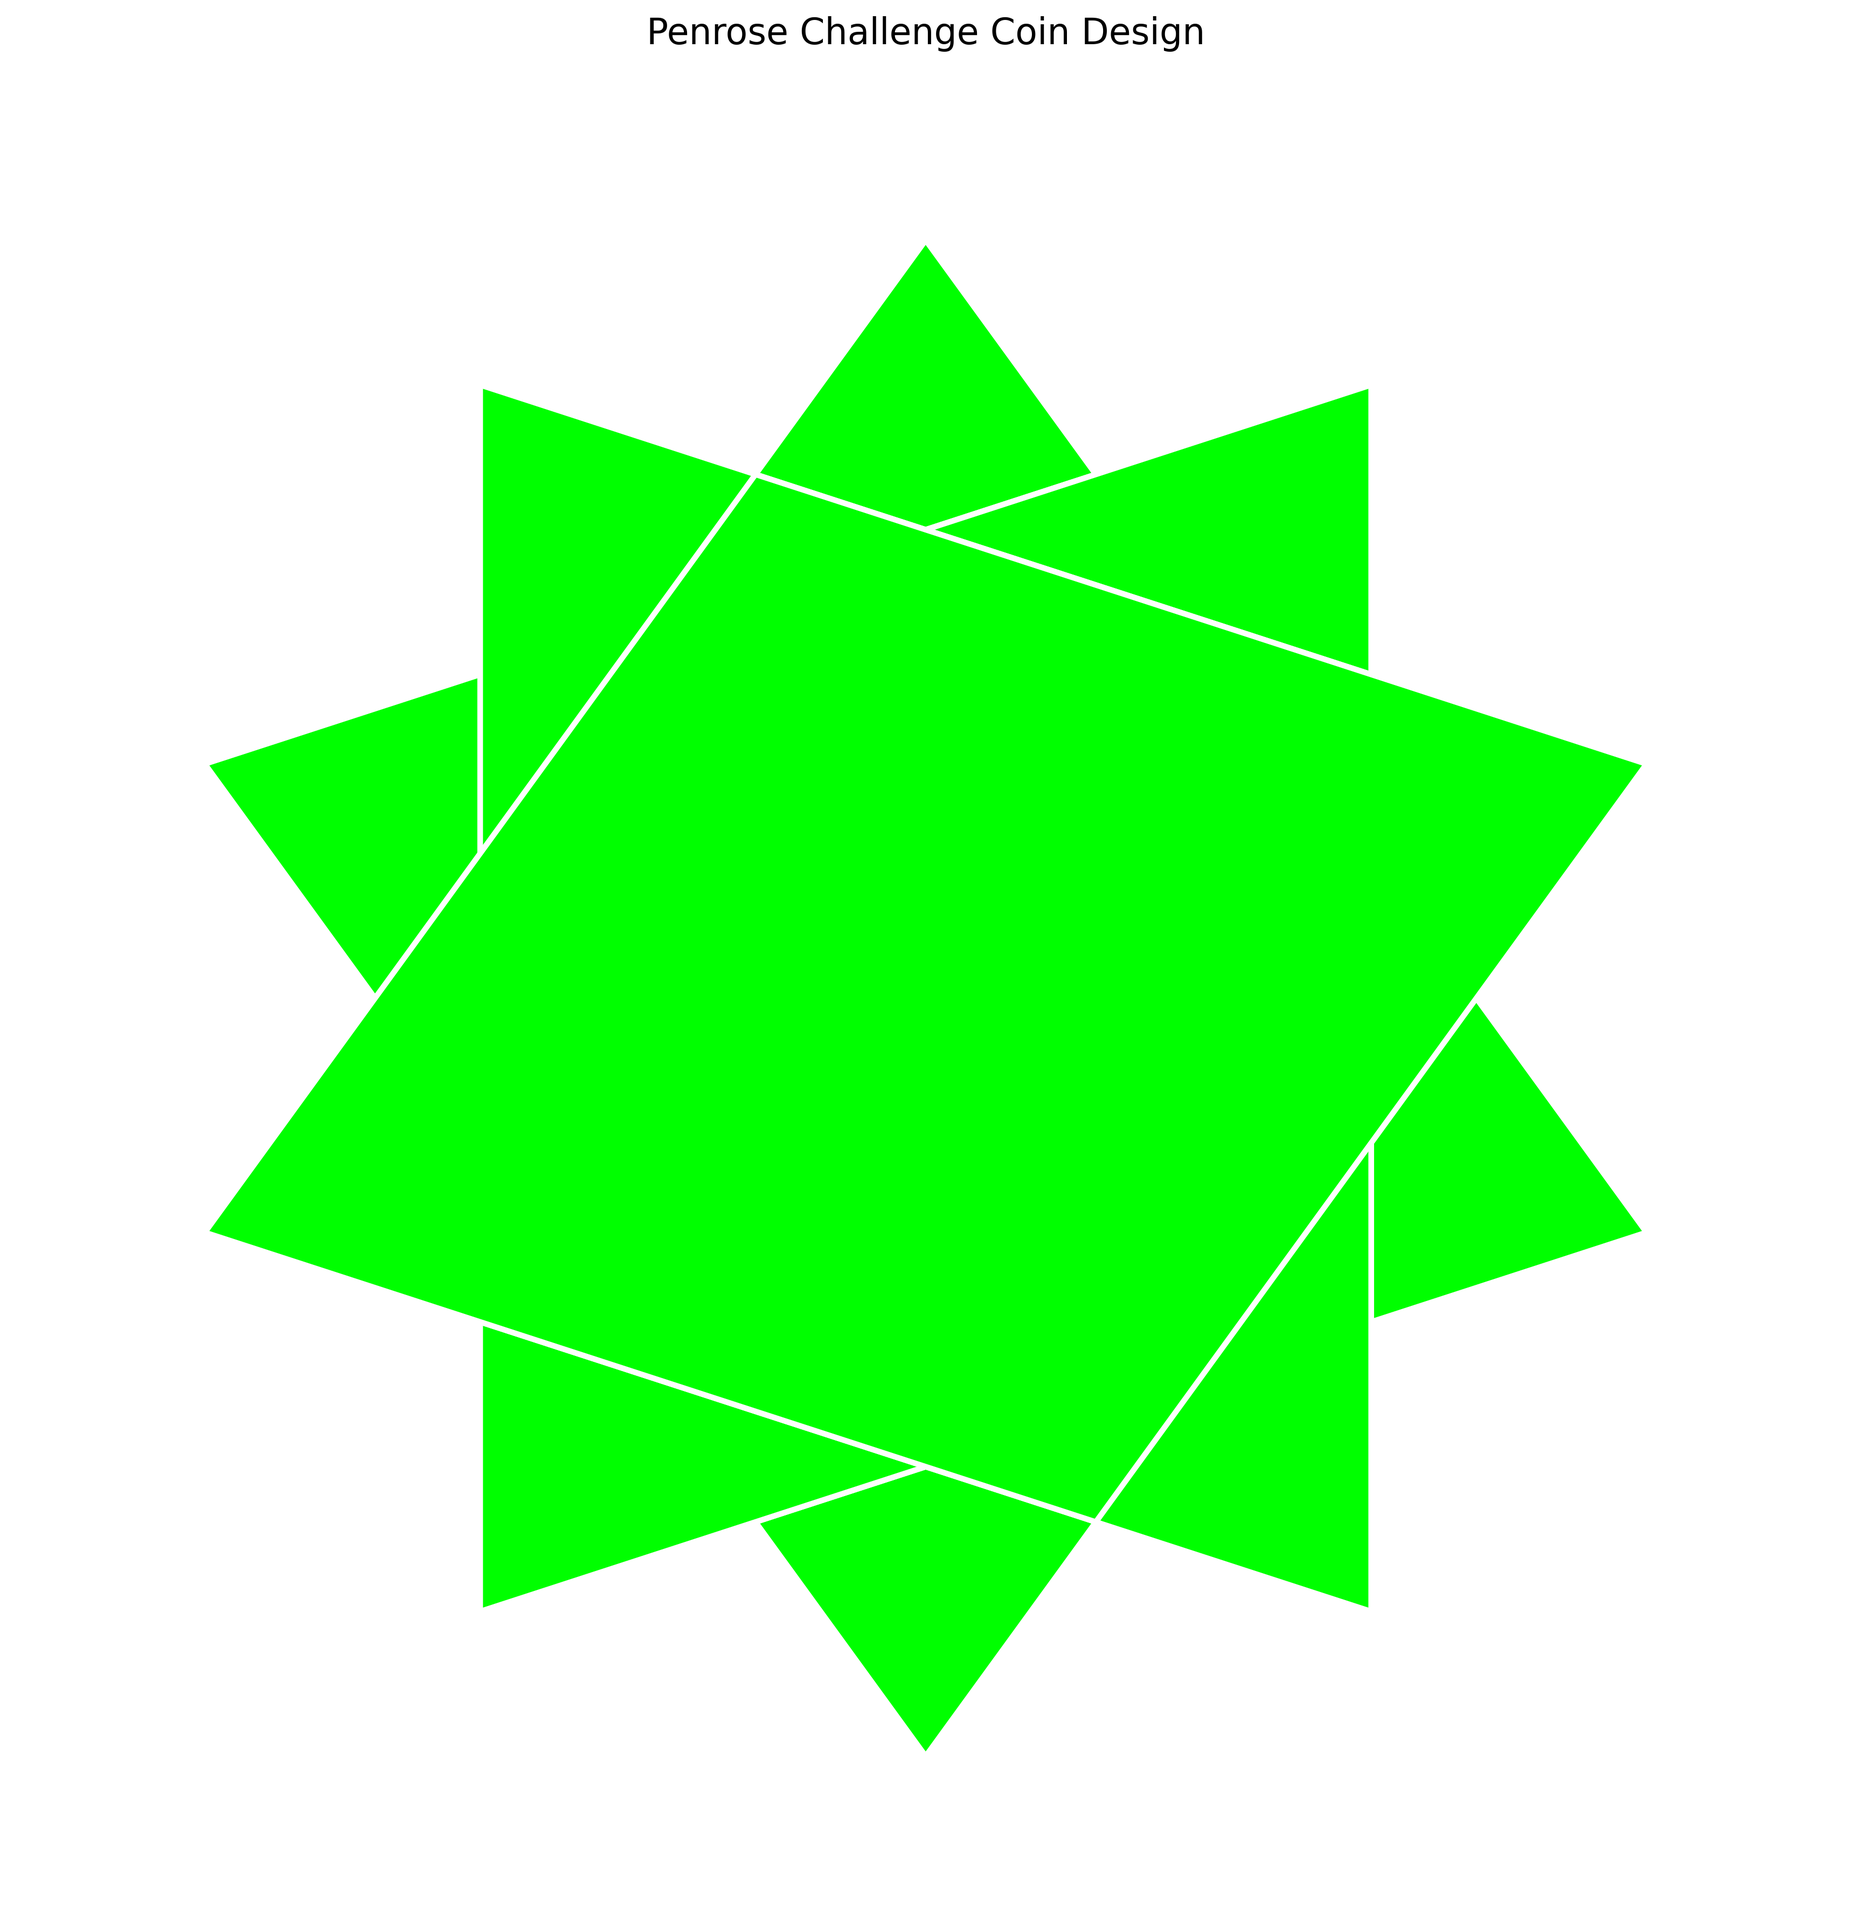
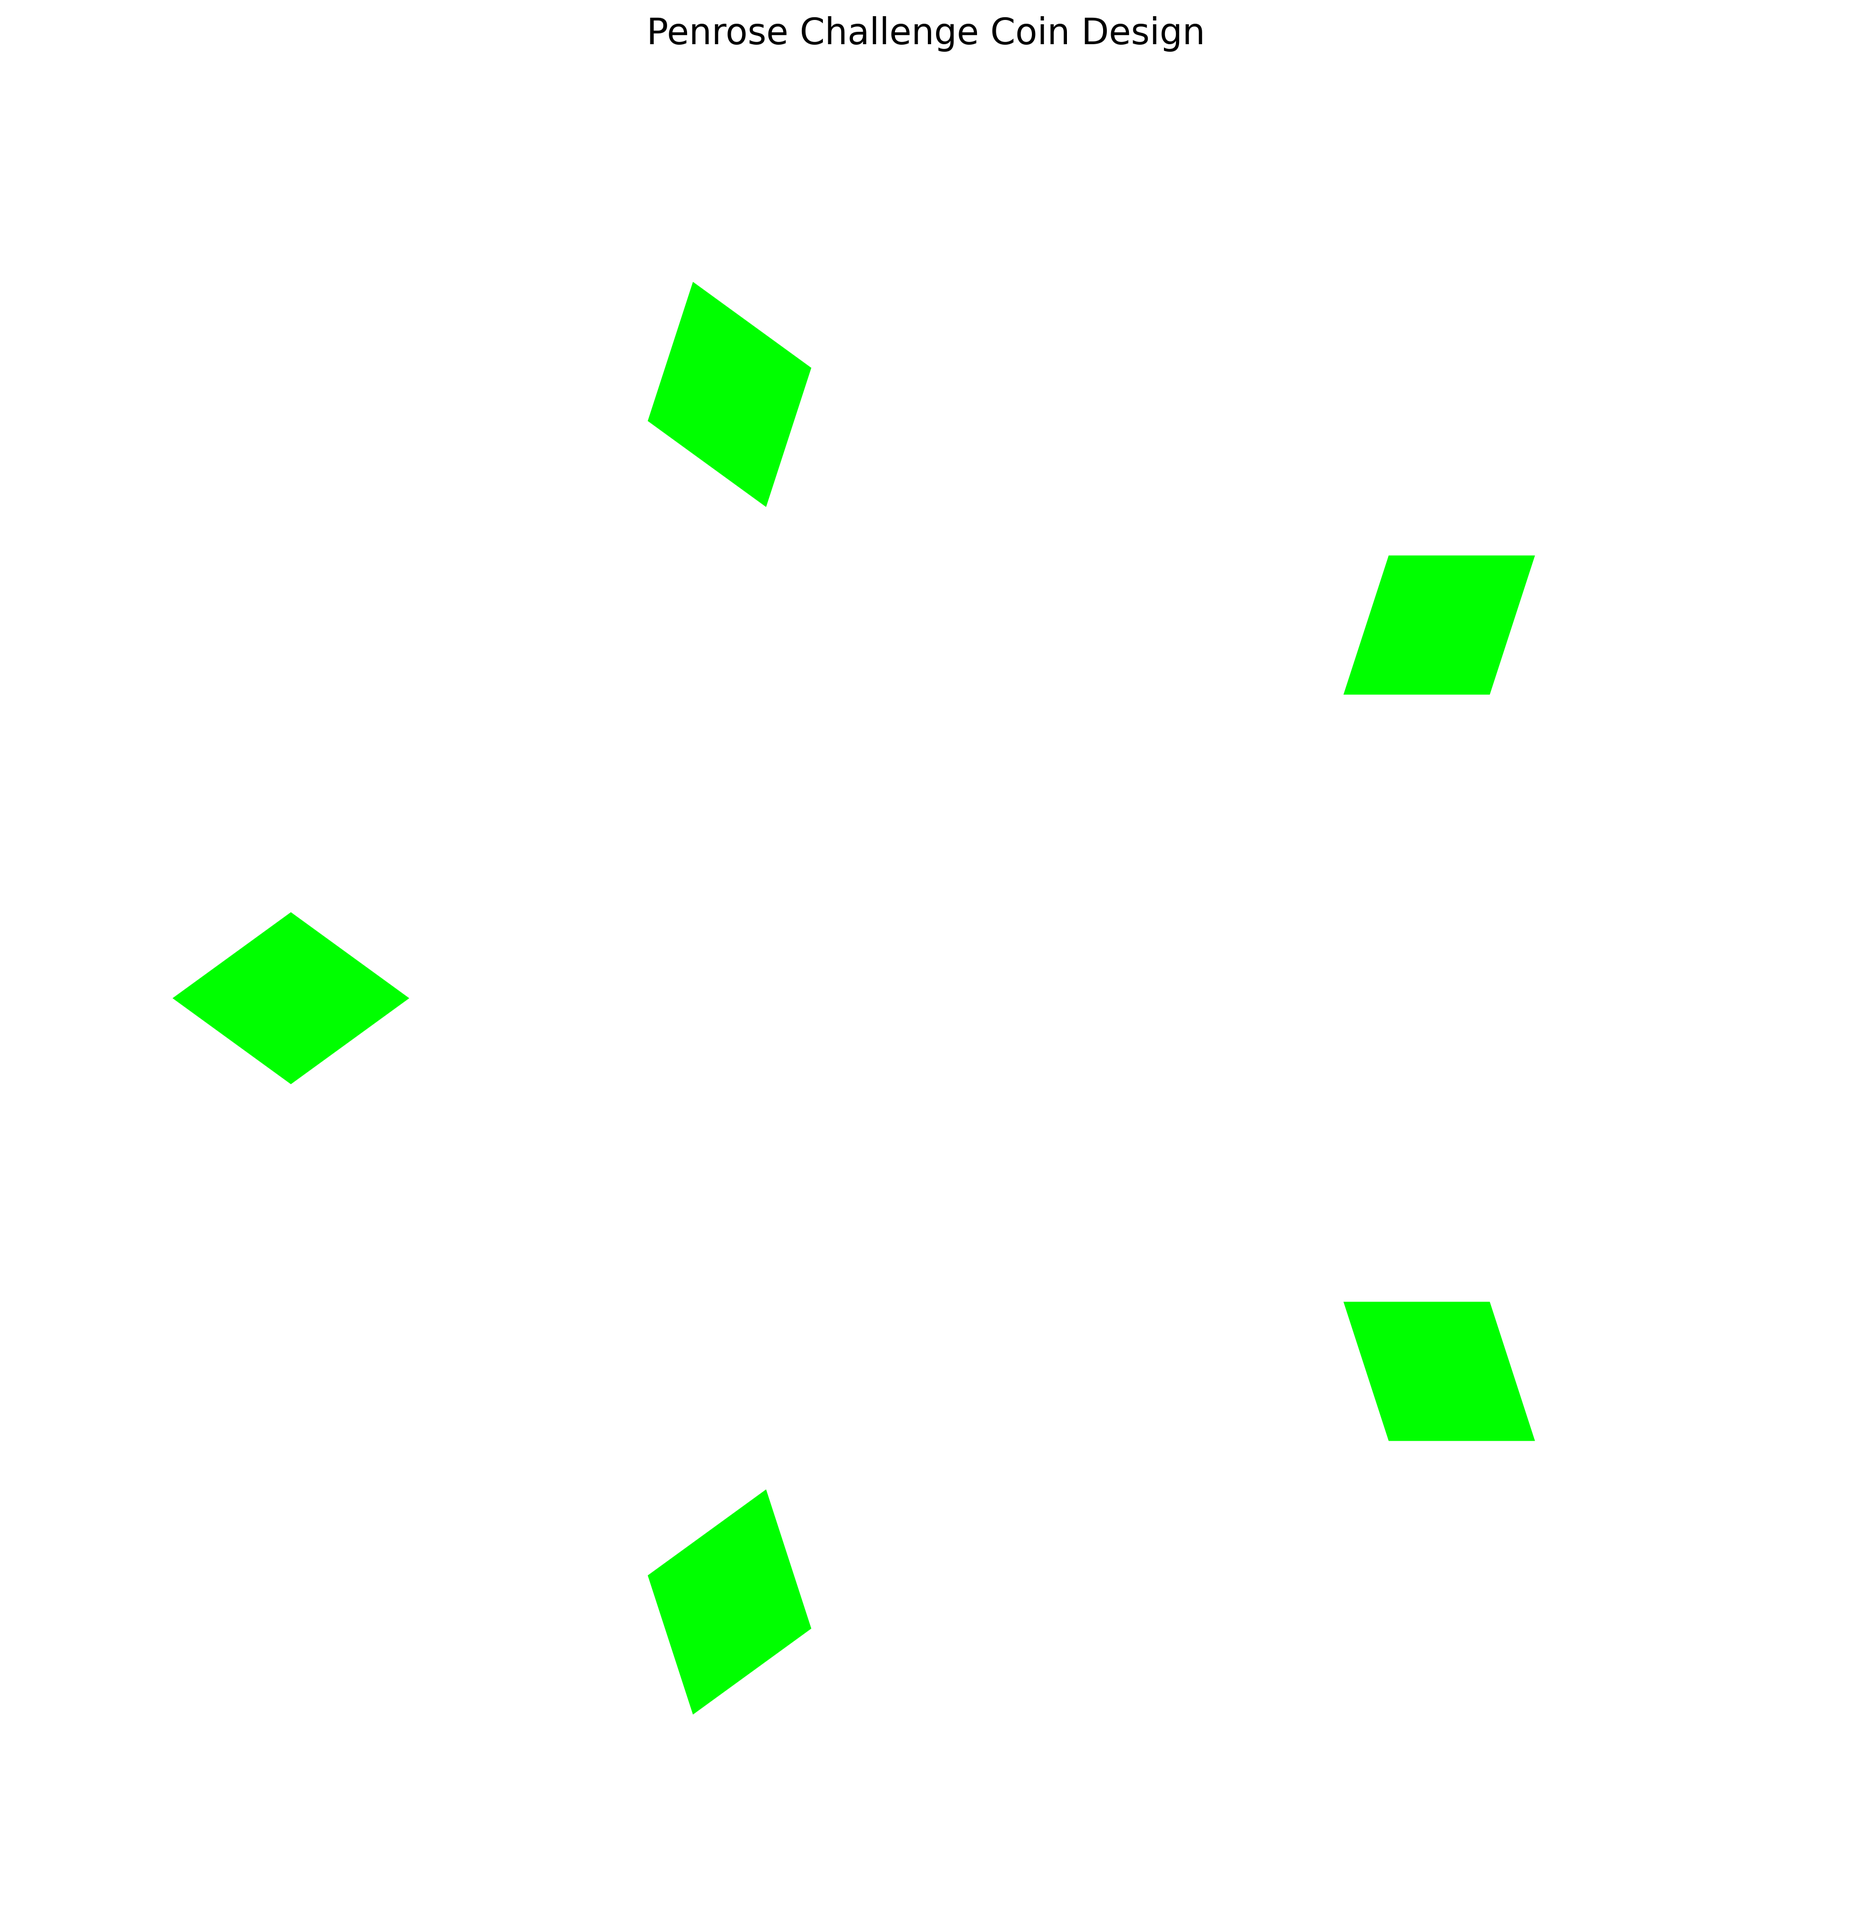
wip

diff --git a/main.py b/main.py
@@ -1,10 +1,8 @@
 import numpy as np
 import matplotlib.pyplot as plt
 from matplotlib.patches import Polygon
-from matplotlib.collections import PatchCollection
 from dataclasses import dataclass
 from typing import List, Tuple
-import math
 
 
 @dataclass
@@ -12,25 +10,21 @@ class TileParams:
     """Parameters for Penrose tiling"""
     scale: float = 1.0
     margin: float = 0.02  # Gap between tiles
-    inner_radius: float = 1.5  # Distance from center to inner rhombi
-    outer_radius: float = 3.5  # Distance from center to outer rhombi
-    kite_color: str = '#00FF00'  # Green (rhombus/kite)
-    dart_color: str = '#FF0000'  # Red (dart)
-    background_color: str = '#8800FF'  # Purple
-    edge_color: str = '#DDDDDD'  # Light gray
+    green_color: str = '#00A000'
+    red_color: str = '#D00000'
+    purple_color: str = '#8800FF'
+    background_color: str = '#FFFFFF'
+    edge_color: str = '#DDDDDD'
     edge_width: float = 2.0
 
 
 class PenroseTile:
-    """Represents a single Penrose tile (kite or dart)"""
-
-    # Golden ratio
-    PHI = (1 + np.sqrt(5)) / 2
+    """Represents a single Penrose tile (always a fat rhombus for this pattern)"""
 
     def __init__(self, tile_type: str, center: Tuple[float, float],
                  angle: float, params: TileParams):
         """
-        tile_type: 'kite' or 'dart'
+        tile_type: 'green', 'red', or 'purple'
         center: (x, y) position
         angle: rotation in degrees
         params: TileParams object
@@ -42,39 +36,22 @@ class PenroseTile:
 
     def get_vertices(self) -> np.ndarray:
         """Calculate vertices for the tile with margin"""
-        # Both rhombi have the same edge length
+        # All tiles are fat rhombi: 72° acute angles, 108° obtuse angles
         edge_length = 1.0
+        acute = 72
+        
+        # Half-diagonal from center to obtuse vertex
+        d1 = edge_length * np.cos(np.radians(acute / 2))  # cos(36)
+        # Half-diagonal from center to acute vertex
+        d2 = edge_length * np.sin(np.radians(acute / 2))  # sin(36)
 
-        if self.tile_type == 'kite':
-            # Fat rhombus: 72° acute angles, 108° obtuse angles
-            # For rhombus with all edges = a and acute angle α:
-            # Half-diagonal from center to acute vertex: d1 = a * sin((180-α)/2)
-            # Half-diagonal from center to obtuse vertex: d2 = a * sin(α/2)
-
-            acute = 72
-            d1 = edge_length * np.sin(np.radians((180 - acute) / 2))  # to obtuse vertices
-            d2 = edge_length * np.sin(np.radians(acute / 2))  # to acute vertices
-
-            vertices = np.array([
-                [0, d2],           # Top (acute 72°)
-                [d1, 0],           # Right (obtuse 108°)
-                [0, -d2],          # Bottom (acute 72°)
-                [-d1, 0],          # Left (obtuse 108°)
-            ])
-        else:  # dart
-            # Thin rhombus: 36° acute angles, 144° obtuse angles
-            # Same edge length as kite, different angles
-
-            acute = 36
-            d1 = edge_length * np.sin(np.radians((180 - acute) / 2))  # to obtuse vertices
-            d2 = edge_length * np.sin(np.radians(acute / 2))  # to acute vertices
-
-            vertices = np.array([
-                [0, d2],           # Top (acute 36°)
-                [d1, 0],           # Right (obtuse 144°)
-                [0, -d2],          # Bottom (acute 36°)
-                [-d1, 0],          # Left (obtuse 144°)
-            ])
+        # Canonical rhombus with long diagonal on x-axis
+        vertices = np.array([
+            [d1, 0],      # Right (obtuse)
+            [0, d2],      # Top (acute)
+            [-d1, 0],     # Left (obtuse)
+            [0, -d2],     # Bottom (acute)
+        ])
 
         # Apply margin by shrinking towards centroid
         if self.params.margin > 0:
@@ -100,7 +77,12 @@ class PenroseTile:
     def get_polygon(self) -> Polygon:
         """Get matplotlib Polygon object"""
         vertices = self.get_vertices()
-        color = self.params.kite_color if self.tile_type == 'kite' else self.params.dart_color
+        color_map = {
+            'green': self.params.green_color,
+            'red': self.params.red_color,
+            'purple': self.params.purple_color,
+        }
+        color = color_map.get(self.tile_type, '#000000')
         return Polygon(vertices, facecolor=color, edgecolor=self.params.edge_color,
                       linewidth=self.params.edge_width)
 
@@ -118,29 +100,62 @@ class PenroseCoin:
         self.tiles.append(tile)
         return tile
 
-    def create_radial_pattern(self):
-        """Create exact pattern: 5 fat rhombi (green) + 5 thin rhombi (red) = 10 total
-        All tiles meet at center with acute angles pointing inward"""
+    def create_pattern(self):
+        """Creates the 2D projection of the rhombic triacontahedron"""
         self.tiles = []
+        
+        # Geometric constants based on the golden ratio for the fat rhombus
+        edge_length = 1.0
+        acute_angle = 72
+        d1 = edge_length * np.cos(np.radians(acute_angle / 2))  # cos(36)
 
-        angle_step = 72  # 360 / 5
-
-        # 5 fat rhombi (kites/green) - acute angles at center
+        # Define the pattern as a list of tiles (type, center, angle)
+        # The pattern is constructed from layers, starting from a central star.
+        
+        # Layer 1: Central Star (5 rhombi)
+        # Colors are ordered to match the image, starting from the top and going clockwise.
+        central_colors = ['green', 'red', 'green', 'green', 'red']
         for i in range(5):
-            angle = i * angle_step
-            # Position at center, rotated so acute angle points to center
-            self.add_tile('kite', (0, 0), angle + 90)
+            angle = 90 - i * 72
+            center_vec = np.array([d1, 0])
+            
+            # Rotate the center vector to position each rhombus of the star
+            rot_rad = np.radians(angle)
+            rotation = np.array([[np.cos(rot_rad), -np.sin(rot_rad)],
+                                 [np.sin(rot_rad), np.cos(rot_rad)]])
+            center = center_vec @ rotation.T
+            
+            self.add_tile(central_colors[i], tuple(center), angle)
 
-#         # 5 thin rhombi (darts/red) - acute angles at center, between the fat ones
-#         for i in range(5):
-#             angle = i * angle_step + angle_step / 2  # Offset by 36°
-#             self.add_tile('dart', (0, 0), angle + 90)
+        # Layer 2: Middle Belt (5 "purple" rhombi)
+        # These are positioned relative to the central star
+        for i in range(5):
+            angle = 54 - i * 72
+            # This center calculation is derived from geometric construction
+            center_vec = np.array([2 * d1 * np.cos(np.radians(36)), 0])
+            
+            rot_rad = np.radians(angle + 18) # Additional rotation for positioning
+            rotation = np.array([[np.cos(rot_rad), -np.sin(rot_rad)],
+                                 [np.sin(rot_rad), np.cos(rot_rad)]])
+            center = center_vec @ rotation.T
 
-    def create_pattern_from_spec(self, tile_specs: List[Tuple[str, Tuple[float, float], float]]):
-        """Create pattern from list of (type, center, angle) specifications"""
-        self.tiles = []
-        for tile_type, center, angle in tile_specs:
-            self.add_tile(tile_type, center, angle)
+            self.add_tile('purple', tuple(center), angle)
+
+        # Layer 3: Outer Belt (5 rhombi)
+        outer_colors = ['green', 'red', 'green', 'red', 'green'] # Symmetrical coloring
+        for i in range(5):
+            angle = 90 - i * 72
+            # Positioned further out
+            center_vec = np.array([d1 + 2 * d1 * np.cos(np.radians(72)), 
+                                   2 * d1 * np.sin(np.radians(72))])
+
+            rot_rad = np.radians(angle - 90)
+            rotation = np.array([[np.cos(rot_rad), -np.sin(rot_rad)],
+                                 [np.sin(rot_rad), np.cos(rot_rad)]])
+            center = center_vec @ rotation.T
+            
+            self.add_tile(outer_colors[i], tuple(center), angle)
+
 
     def plot(self, figsize: Tuple[int, int] = (10, 10),
              show_grid: bool = False, show_background: bool = True):
@@ -161,7 +176,7 @@ class PenroseCoin:
             all_vertices.extend(tile.get_vertices())
         if all_vertices:
             vertices_array = np.array(all_vertices)
-            max_coord = np.max(np.abs(vertices_array)) * 1.2
+            max_coord = np.max(np.abs(vertices_array)) * 1.1
             ax.set_xlim(-max_coord, max_coord)
             ax.set_ylim(-max_coord, max_coord)
 
@@ -172,7 +187,7 @@ class PenroseCoin:
         else:
             ax.axis('off')
 
-        plt.title('Penrose Challenge Coin Design', fontsize=16, pad=20)
+        plt.title('Penrose Pattern Coin Design', fontsize=16, pad=20)
         plt.tight_layout()
 
         return fig, ax
@@ -182,35 +197,21 @@ class PenroseCoin:
 if __name__ == "__main__":
     # Create coin with custom parameters
     params = TileParams(
-        scale=1.2,
-        margin=0.03,
-        inner_radius=1.0,  # Closer together - distance from center to inner rhombi
-        outer_radius=2.2,  # Closer together - distance from center to outer rhombi
-        kite_color='#00FF00',
-        dart_color='#FF0000',
-        background_color='#8800FF',
+        scale=0.4,
+        margin=0.015,
         edge_color='#FFFFFF',
         edge_width=2.5
     )
 
     coin = PenroseCoin(params)
 
-    # Create the exact pattern: 5 inner + 5 outer fat rhombi + 10 thin rhombi
-    coin.create_radial_pattern()
+    # Create the exact pattern from the image
+    coin.create_pattern()
 
-    # Option 2: Manually specify tiles (commented out)
-    # custom_tiles = [
-    #     ('kite', (0, 1), 0),
-    #     ('dart', (1.5, 0), 45),
-    #     ('kite', (0, -1), 180),
-    #     ('dart', (-1.5, 0), 225),
-    # ]
-    # coin.create_pattern_from_spec(custom_tiles)
-
-    # Plot and save (no interactive window)
+    # Plot and show
     fig, ax = coin.plot(figsize=(12, 12), show_grid=False, show_background=True)
-    plt.savefig('penrose_coin.png', dpi=300, bbox_inches='tight', facecolor='white')
-    plt.close()
+    plt.savefig('penrose_coin.png', dpi=300, bbox_inches='tight', facecolor=params.background_color)
+    plt.show()
 
     print("Coin design saved to 'penrose_coin.png'")
     print(f"Number of tiles: {len(coin.tiles)}")

diff --git a/main_claude_failed_attempt.py b/main_claude_failed_attempt.py
@@ -118,30 +118,37 @@ class PenroseCoin:
 
     def create_radial_pattern(self):
         """Create exact pattern matching reference image:
-        - 5 green fat rhombi forming pentagon in center (OBTUSE angles meet at center)
-        - Additional tiles around them
+        - 5 green fat rhombi forming pentagon in center
+        - Pentagon vertices are where the rhombi meet at their obtuse angles
         """
         self.tiles = []
 
         angle_step = 72  # 360 / 5
 
-        # 5 fat rhombi (kites/green) forming a pentagon
-        # In the reference, they meet at the CENTER with their OBTUSE (108°) angles
-        # So the acute (72°) angles point OUTWARD
-        for i in range(5):
-            angle = i * angle_step
-            # Rotate so OBTUSE angle points to center (acute points out)
-            self.add_tile('kite', (0, 0), angle - 90)
+        # Calculate pentagon vertices (where obtuse angles of rhombi meet)
+        pentagon_radius = self.params.inner_radius
 
-        # Uncomment for red rhombi
-        # # 5 thin rhombi (darts/red) - positioned between the green ones
-        # for i in range(5):
-        #     angle = i * angle_step + angle_step / 2  # Offset by 36°
-        #     # Position them outward from center
-        #     offset = 1.0  # Adjust this to position correctly
-        #     x = offset * np.cos(np.radians(angle))
-        #     y = offset * np.sin(np.radians(angle))
-        #     self.add_tile('dart', (x, y), angle + 90)
+        # Each fat rhombus connects two adjacent pentagon vertices
+        # The rhombus edges form the pentagon sides
+        for i in range(5):
+            # Two adjacent vertices of the pentagon
+            angle1 = i * angle_step
+            angle2 = (i + 1) * angle_step
+
+            v1_x = pentagon_radius * np.cos(np.radians(angle1))
+            v1_y = pentagon_radius * np.sin(np.radians(angle1))
+            v2_x = pentagon_radius * np.cos(np.radians(angle2))
+            v2_y = pentagon_radius * np.sin(np.radians(angle2))
+
+            # Center of this rhombus is at the midpoint of the pentagon edge
+            center_x = (v1_x + v2_x) / 2
+            center_y = (v1_y + v2_y) / 2
+
+            # Angle of the rhombus: perpendicular to the line from origin to midpoint
+            midpoint_angle = np.degrees(np.arctan2(center_y, center_x))
+
+            # The rhombus should be oriented so one axis points radially outward
+            self.add_tile('kite', (center_x, center_y), midpoint_angle)
 
     def create_pattern_from_spec(self, tile_specs: List[Tuple[str, Tuple[float, float], float]]):
         """Create pattern from list of (type, center, angle) specifications"""
